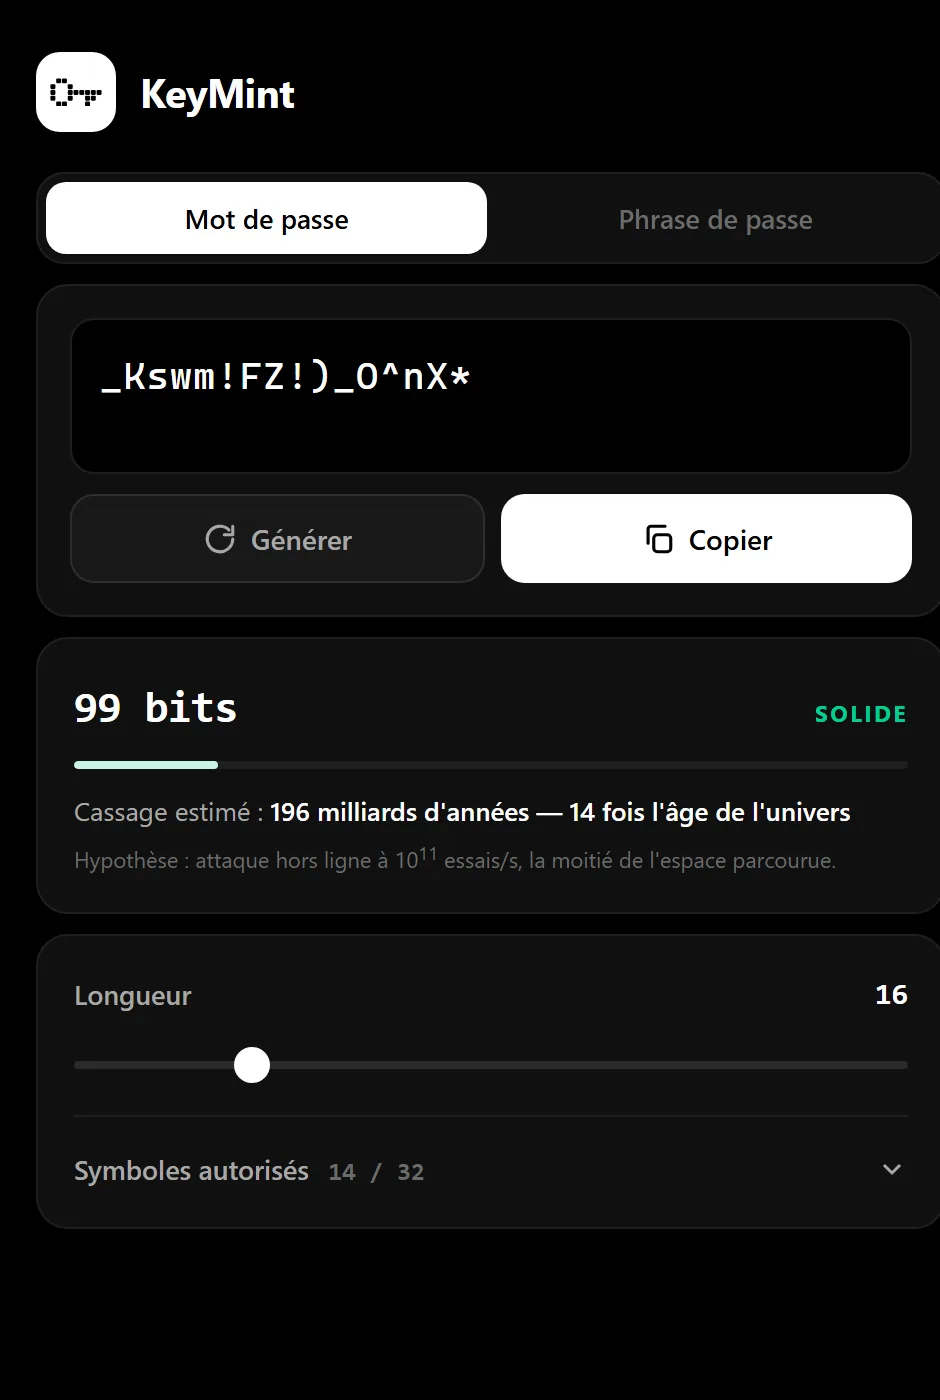
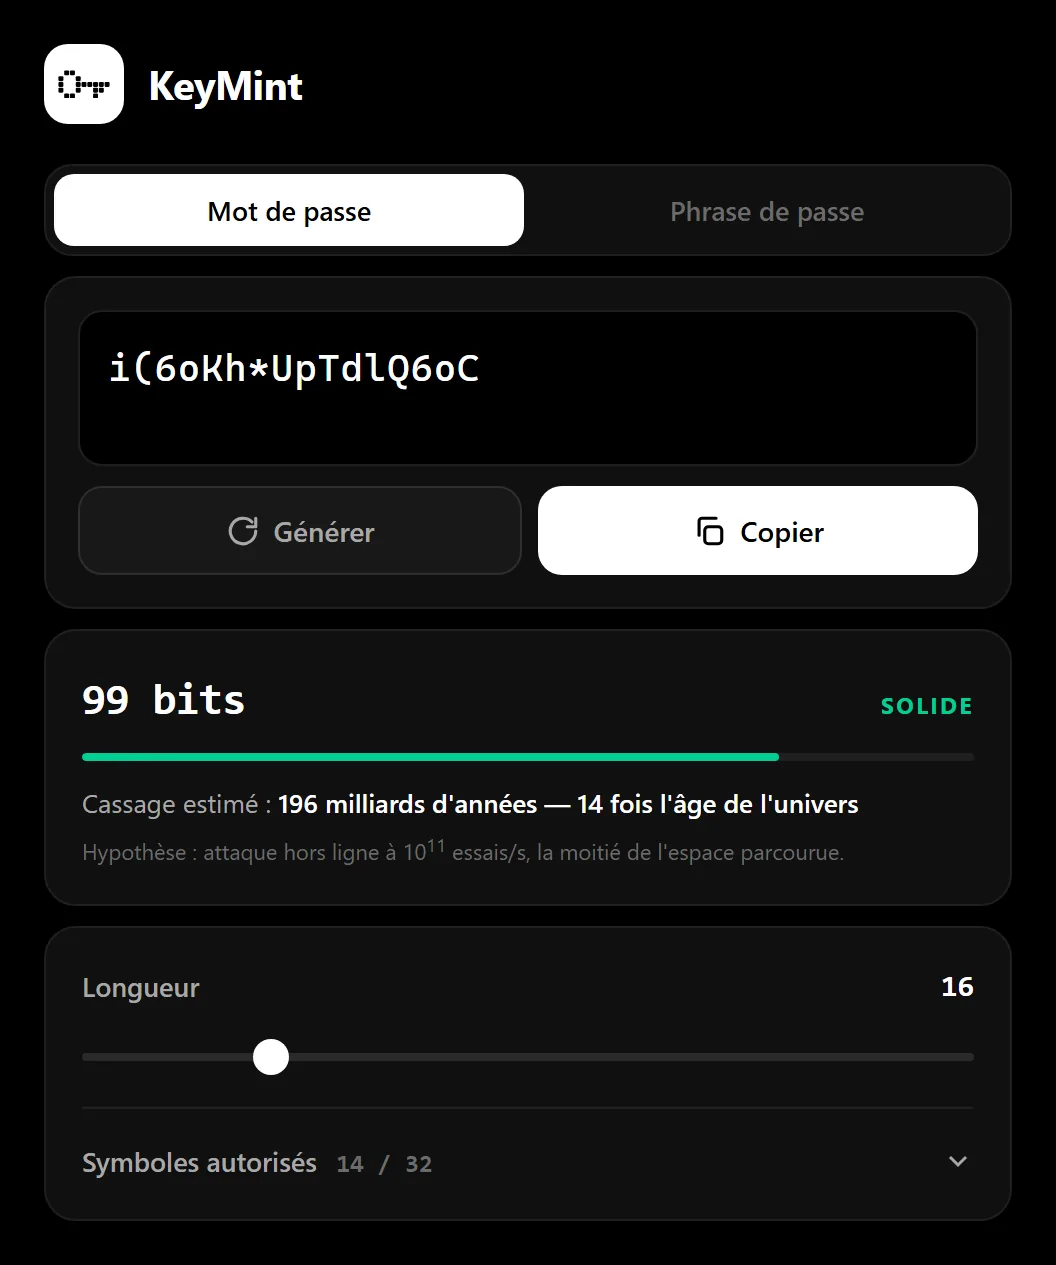
portfolio: KeyMint — liste fusionnee (4151 mots), migration des prefs, captures recentrees

diff --git a/index-fr.html b/index-fr.html
@@ -612,7 +612,7 @@ footer{border-top:1px solid var(--border);margin-top:80px;padding:32px 0;}
 <div class="pm" id="projmodal"><div class="pm-panel"><button class="pm-close" id="pm-close" aria-label="Close">✕</button><div id="pm-body"></div></div></div>
 <script type="application/json" id="projdata">
 {
- "keymint":{"title": "KeyMint — générateur de mots de passe", "cat": "🔑 Hors ligne · PWA + app Windows", "sub": "Des secrets forts, générés hors ligne, jamais enregistrés", "shots": [{"src": "assets/shots/keymint_password.webp", "cap": "Mode mot de passe — entropie réelle en bits"}, {"src": "assets/shots/keymint_passphrase.webp", "cap": "Mode phrase de passe — liste française de 2783 mots"}], "desc": "Un générateur de mots de passe et de phrases de passe qui fonctionne entièrement hors ligne, sur téléphone (PWA installable) et sur Windows (.exe autonome). Il affiche l'entropie réelle en bits et un ordre de grandeur du temps de cassage sous une hypothèse explicitement affichée — plutôt qu'une jauge « faible/fort » arbitraire. Rien n'est jamais enregistré ni transmis.", "feats": ["Tirage uniforme sans biais : un rand() % taille_alphabet naïf favorise statistiquement les premiers caractères de l'alphabet. KeyMint utilise un rejection sampling sur des mots de 32 bits, et un test du khi-deux sur 500 000 tirages prouve que la distribution reste uniforme.","La liste de mots des phrases de passe a été refaite intégralement. Les listes Diceware françaises existantes sont bâties sur un lexique de fréquence sans filtrer la catégorie grammaticale : elles produisent des phrases impossibles à retenir (mots rares, formes conjuguées). La nouvelle croise quatre signaux indépendants — fréquence d'usage réelle (wordfreq), filtres morphologiques, comparaison fr/en pour écarter les anglicismes, étiquetage grammatical (spaCy) pour ne garder que noms communs et adjectifs, et validation par dictionnaire exploitant la casse pour éliminer les noms propres. 2783 mots du quotidien.", "L'aléa vient exclusivement du CSPRNG du système (crypto.getRandomValues). Math.random() est banni, et un test échoue si jamais il apparaît dans le moteur.", "Aucune contrainte de composition (pas de chiffre imposé) : forcer une classe de caractères retire de l'entropie au lieu d'en ajouter.", "Surface d'attaque nulle par conception : Content-Security-Policy stricte (default-src 'none'), aucune requête réseau, aucun secret persisté, presse-papier effacé automatiquement au bout de 2 minutes.","Cycle de vie mobile pris en compte explicitement : un téléphone suspend la page dès qu'on quitte l'app, le minuteur d'effacement ne se déclenche donc pas et l'API presse-papier exige de toute façon le focus. La copie est horodatée et un second déclencheur agit au retour dans l'app (visibilitychange / focus / pageshow) en rattrapant le temps écoulé — la limite de plateforme restante étant documentée plutôt que masquée.", "Un seul moteur partagé par les deux plateformes : l'app Windows sert le même code via pywebview sur 127.0.0.1 — un contexte sécurisé, ce que file:// n'est pas et qu'exige l'API presse-papier.", "26 tests automatisés, dont des khi-deux sur le tirage, sur le mélange de Fisher-Yates et sur les caractères réellement produits."], "metrics": [["99 bits", "16 caractères, alphabet de 76"], ["χ² 500k", "absence de biais prouvée"], ["0 stocké", "rien n'est persisté"], ["2 min", "presse-papier effacé"]], "tech": ["JavaScript", "Web Crypto API", "PWA", "Service Worker", "Content-Security-Policy", "Python", "pywebview", "PyInstaller", "Tests Node.js", "Cryptographie appliquée"], "repo": "https://github.com/thespicyy/keymint", "demo": "https://thespicyy.github.io/keymint/"},
+ "keymint":{"title": "KeyMint — générateur de mots de passe", "cat": "🔑 Hors ligne · PWA + app Windows", "sub": "Des secrets forts, générés hors ligne, jamais enregistrés", "shots": [{"src": "assets/shots/keymint_password.webp", "cap": "Mode mot de passe — entropie réelle en bits"}, {"src": "assets/shots/keymint_passphrase.webp", "cap": "Mode phrase de passe — liste française de 4151 mots"}], "desc": "Un générateur de mots de passe et de phrases de passe qui fonctionne entièrement hors ligne, sur téléphone (PWA installable) et sur Windows (.exe autonome). Il affiche l'entropie réelle en bits et un ordre de grandeur du temps de cassage sous une hypothèse explicitement affichée — plutôt qu'une jauge « faible/fort » arbitraire. Rien n'est jamais enregistré ni transmis.", "feats": ["Tirage uniforme sans biais : un rand() % taille_alphabet naïf favorise statistiquement les premiers caractères de l'alphabet. KeyMint utilise un rejection sampling sur des mots de 32 bits, et un test du khi-deux sur 500 000 tirages prouve que la distribution reste uniforme.","La liste de mots des phrases de passe a été refaite intégralement. Les listes Diceware françaises existantes sont bâties sur un lexique de fréquence sans filtrer la catégorie grammaticale : elles produisent des phrases impossibles à retenir (mots rares, formes conjuguées). La nouvelle croise quatre signaux indépendants — fréquence d'usage réelle (wordfreq), filtres morphologiques, comparaison fr/en pour écarter les anglicismes, étiquetage grammatical (spaCy) pour ne garder que noms communs et adjectifs, et validation par dictionnaire exploitant la casse pour éliminer les noms propres. 4151 mots du quotidien, fusionnés avec la liste Diceware de diceware.fr (CC BY 4.0) après retrait des injures, vulgarités et formes conjuguées.", "L'aléa vient exclusivement du CSPRNG du système (crypto.getRandomValues). Math.random() est banni, et un test échoue si jamais il apparaît dans le moteur.", "Aucune contrainte de composition (pas de chiffre imposé) : forcer une classe de caractères retire de l'entropie au lieu d'en ajouter.", "Surface d'attaque nulle par conception : Content-Security-Policy stricte (default-src 'none'), aucune requête réseau, aucun secret persisté, presse-papier effacé automatiquement au bout de 2 minutes.","Les préférences enregistrent la taille de la liste avec laquelle elles ont été choisies. Lors de la refonte de la liste, un réglage mémorisé de 5 mots est tombé silencieusement de 63 à 57 bits — le genre de régression qui ne signale rien. L'app réinitialise désormais le nombre de mots quand la liste change, en conservant toutes les autres préférences.","Cycle de vie mobile pris en compte explicitement : un téléphone suspend la page dès qu'on quitte l'app, le minuteur d'effacement ne se déclenche donc pas et l'API presse-papier exige de toute façon le focus. La copie est horodatée et un second déclencheur agit au retour dans l'app (visibilitychange / focus / pageshow) en rattrapant le temps écoulé — la limite de plateforme restante étant documentée plutôt que masquée.", "Un seul moteur partagé par les deux plateformes : l'app Windows sert le même code via pywebview sur 127.0.0.1 — un contexte sécurisé, ce que file:// n'est pas et qu'exige l'API presse-papier.", "27 tests automatisés, dont des khi-deux sur le tirage, sur le mélange de Fisher-Yates et sur les caractères réellement produits."], "metrics": [["99 bits", "16 caractères, alphabet de 76"], ["χ² 500k", "absence de biais prouvée"], ["0 stocké", "rien n'est persisté"], ["2 min", "presse-papier effacé"]], "tech": ["JavaScript", "Web Crypto API", "PWA", "Service Worker", "Content-Security-Policy", "Python", "pywebview", "PyInstaller", "Tests Node.js", "Cryptographie appliquée"], "repo": "https://github.com/thespicyy/keymint", "demo": "https://thespicyy.github.io/keymint/"},
  "rnglab":{"title": "RNG Lab — aléatoire statistique contre aléatoire cryptographique", "cat": "🎲 Cryptanalyse · Statistiques inférentielles", "sub": "Réussir les tests n'est pas être sûr — démontré sur banc d'essai", "shots": [{"src": "assets/shots/rnglab_matrix.webp", "cap": "Matrice des résultats — 8 générateurs × 8 tests"}], "desc": "Un banc d'essai comparatif de 8 générateurs de nombres aléatoires, passés au crible d'une batterie de 8 tests statistiques implémentés de zéro, puis d'une attaque de cryptanalyse. Le livrable est un rapport HTML autonome aux figures SVG écrites à la main. Il établit expérimentalement un résultat contre-intuitif : réussir les tests statistiques ne prouve rien sur la sécurité.", "feats": ["Mersenne Twister — le générateur de Python, PHP, Ruby et Excel — passe les 8 tests sans faiblesse, et 100 % de ses sorties futures sont prédites après observation de 624 valeurs, en inversant sa fonction de tempering pour reconstruire l'état interne.", "Une source d'entropie rigoureusement nulle, conditionnée par SHA-256, passe elle aussi les 8 tests. Les tests mesurent le conditionneur, jamais la source — c'est précisément pourquoi un générateur matériel maison est dangereux.", "Deux trouvailles sur la construction d'une vraie source physique : sous Windows la granularité d'horloge de 100 ns annule silencieusement l'entropie d'un TRNG par jitter naïf (min-entropie mesurée à 0,000 bit/bit), et après débiaisage de von Neumann le flux reste déséquilibré à 0,467 — ce qui prouve que les bits bruts ne sont pas indépendants, l'hypothèse même de la méthode.", "Les 8 tests suivent NIST SP 800-22 (monobit, runs, plus longue série, khi-deux, spectral par DFT, autocorrélation avec correction de Bonferroni, incompressibilité). Les p-valeurs reposent sur une fonction gamma incomplète régularisée écrite à la main et validée contre SciPy.", "Chaque test est éprouvé sur des suites délibérément défectueuses dont on connaît le défaut — un test qui ne rejette jamais rien ne vaut rien."], "metrics": [["5 000/5 000", "sorties de MT19937 prédites"], ["0 bit", "d'entropie qui passe quand même 8/8"], ["8 tests", "implémentés de zéro"], ["590 000×", "CSPRNG contre TRNG logiciel"]], "tech": ["Python", "NumPy", "Cryptanalyse", "Statistiques inférentielles", "NIST SP 800-22", "NIST SP 800-90B", "Analyse numérique", "Théorie de l'information", "SVG écrit à la main"], "repo": null, "demo": "rng-lab/index.html"},
  "tdl":{"title":"TDL — Mes tâches","cat":"📱 PWA · To-do multi-appareils","sub":"Une to-do list simple, synchronisée tél & PC",
   "shots":[{"src":"assets/shots/tdl_todo_list.webp","cap":"Liste de tâches (PWA mobile)"},{"src":"assets/shots/tdl_todo_sync.webp","cap":"Synchro multi-appareils"}],

diff --git a/index.html b/index.html
@@ -612,7 +612,7 @@ footer{border-top:1px solid var(--border);margin-top:80px;padding:32px 0;}
 <div class="pm" id="projmodal"><div class="pm-panel"><button class="pm-close" id="pm-close" aria-label="Close">✕</button><div id="pm-body"></div></div></div>
 <script type="application/json" id="projdata">
 {
- "keymint":{"title": "KeyMint — password generator", "cat": "🔑 Offline · PWA + Windows app", "sub": "Strong secrets, generated offline, never stored", "shots": [{"src": "assets/shots/keymint_password.webp", "cap": "Password mode — real entropy in bits"}, {"src": "assets/shots/keymint_passphrase.webp", "cap": "Passphrase mode — 2783-word French list"}], "desc": "A password and passphrase generator that runs entirely offline, on the phone (installable PWA) and on Windows (standalone .exe). It shows the real entropy in bits and an order of magnitude for the cracking time under an explicitly stated assumption — rather than an arbitrary weak/strong gauge. Nothing is ever stored or transmitted.", "feats": ["Unbiased uniform sampling: a naive rand() % alphabet_size statistically favours the first characters of the alphabet. KeyMint uses rejection sampling over 32-bit words, and a chi-square test on 500 000 draws proves the distribution stays uniform.","The passphrase wordlist was rebuilt from scratch. Off-the-shelf French Diceware lists are built on a frequency lexicon without filtering by part of speech, so they yield unmemorable phrases (rare words, conjugated verb forms). The new list crosses four independent signals — real usage frequency (wordfreq), morphological filters, a French/English comparison to drop loanwords, part-of-speech tagging (spaCy) to keep only common nouns and adjectives, and dictionary validation exploiting capitalisation to remove proper nouns. 2783 everyday words.", "Randomness comes exclusively from the OS CSPRNG (crypto.getRandomValues). Math.random() is banned, and a test fails the build if it ever appears in the engine.", "No composition constraint (no forced digit): forcing a character class removes entropy instead of adding it.", "Zero attack surface by design: strict Content-Security-Policy (default-src 'none'), no network request at all, no secret persisted, clipboard wiped automatically after 2 minutes.","Mobile lifecycle handled explicitly: a phone suspends the page the moment you leave the app, so the wipe timer never fires and the clipboard API requires focus anyway. The copy is timestamped and a second trigger runs on return to the app (visibilitychange / focus / pageshow), catching up the elapsed time — with the remaining platform limitation documented rather than hidden.", "One engine shared by both platforms: the Windows app serves the same code through pywebview over 127.0.0.1 — a secure context, which file:// is not, and which the clipboard API requires.", "26 automated tests, including chi-square on the sampler, on the Fisher-Yates shuffle and on the characters actually produced."], "metrics": [["99 bits", "16 chars, 76-symbol alphabet"], ["χ² 500k", "proven bias-free"], ["0 stored", "nothing persisted"], ["2 min", "clipboard auto-wipe"]], "tech": ["JavaScript", "Web Crypto API", "PWA", "Service Worker", "Content-Security-Policy", "Python", "pywebview", "PyInstaller", "Node.js tests", "Applied cryptography"], "repo": "https://github.com/thespicyy/keymint", "demo": "https://thespicyy.github.io/keymint/"},
+ "keymint":{"title": "KeyMint — password generator", "cat": "🔑 Offline · PWA + Windows app", "sub": "Strong secrets, generated offline, never stored", "shots": [{"src": "assets/shots/keymint_password.webp", "cap": "Password mode — real entropy in bits"}, {"src": "assets/shots/keymint_passphrase.webp", "cap": "Passphrase mode — 4151-word French list"}], "desc": "A password and passphrase generator that runs entirely offline, on the phone (installable PWA) and on Windows (standalone .exe). It shows the real entropy in bits and an order of magnitude for the cracking time under an explicitly stated assumption — rather than an arbitrary weak/strong gauge. Nothing is ever stored or transmitted.", "feats": ["Unbiased uniform sampling: a naive rand() % alphabet_size statistically favours the first characters of the alphabet. KeyMint uses rejection sampling over 32-bit words, and a chi-square test on 500 000 draws proves the distribution stays uniform.","The passphrase wordlist was rebuilt from scratch. Off-the-shelf French Diceware lists are built on a frequency lexicon without filtering by part of speech, so they yield unmemorable phrases (rare words, conjugated verb forms). The new list crosses four independent signals — real usage frequency (wordfreq), morphological filters, a French/English comparison to drop loanwords, part-of-speech tagging (spaCy) to keep only common nouns and adjectives, and dictionary validation exploiting capitalisation to remove proper nouns. 4151 everyday words, merged with the Diceware list from diceware.fr (CC BY 4.0) after filtering out slurs, vulgarities and conjugated forms.", "Randomness comes exclusively from the OS CSPRNG (crypto.getRandomValues). Math.random() is banned, and a test fails the build if it ever appears in the engine.", "No composition constraint (no forced digit): forcing a character class removes entropy instead of adding it.", "Zero attack surface by design: strict Content-Security-Policy (default-src 'none'), no network request at all, no secret persisted, clipboard wiped automatically after 2 minutes.","Preferences carry the size of the wordlist they were chosen with. When the list was rebuilt, a stored setting of 5 words silently dropped from 63 to 57 bits — the kind of regression that reports nothing. The app now resets the word count when the list changes, and keeps every other preference untouched.","Mobile lifecycle handled explicitly: a phone suspends the page the moment you leave the app, so the wipe timer never fires and the clipboard API requires focus anyway. The copy is timestamped and a second trigger runs on return to the app (visibilitychange / focus / pageshow), catching up the elapsed time — with the remaining platform limitation documented rather than hidden.", "One engine shared by both platforms: the Windows app serves the same code through pywebview over 127.0.0.1 — a secure context, which file:// is not, and which the clipboard API requires.", "27 automated tests, including chi-square on the sampler, on the Fisher-Yates shuffle and on the characters actually produced."], "metrics": [["99 bits", "16 chars, 76-symbol alphabet"], ["χ² 500k", "proven bias-free"], ["0 stored", "nothing persisted"], ["2 min", "clipboard auto-wipe"]], "tech": ["JavaScript", "Web Crypto API", "PWA", "Service Worker", "Content-Security-Policy", "Python", "pywebview", "PyInstaller", "Node.js tests", "Applied cryptography"], "repo": "https://github.com/thespicyy/keymint", "demo": "https://thespicyy.github.io/keymint/"},
  "rnglab":{"title": "RNG Lab — statistical vs cryptographic randomness", "cat": "🎲 Cryptanalysis · Inferential statistics", "sub": "Passing the tests is not being secure — proven on a bench", "shots": [{"src": "assets/shots/rnglab_matrix.webp", "cap": "Results matrix — 8 generators × 8 statistical tests"}], "desc": "A comparative bench of 8 random number generators, put through a battery of 8 statistical tests implemented from scratch, then through a cryptanalytic attack. The deliverable is a self-contained HTML report with hand-written SVG figures. It establishes experimentally a counter-intuitive result: passing the statistical tests proves nothing about security.", "feats": ["Mersenne Twister — the generator behind Python, PHP, Ruby and Excel — passes all 8 tests without a weakness, and 100 % of its future output is predicted after observing 624 values, by inverting its tempering function to rebuild the internal state.", "An entropy source containing exactly zero entropy, conditioned through SHA-256, also passes all 8 tests. The tests measure the conditioner, never the source — which is precisely why a homemade hardware generator is dangerous.", "Two findings on building a real physical source: on Windows the 100 ns clock granularity silently zeroes the entropy of a naive jitter TRNG (min-entropy measured at 0.000 bit/bit), and after von Neumann debiasing the stream stays imbalanced at 0.467 — proving the raw bits are not independent, which is the method's own assumption.", "The 8 tests follow NIST SP 800-22 (monobit, runs, longest run, chi-square, spectral DFT, autocorrelation with Bonferroni correction, incompressibility). P-values rest on a regularised incomplete gamma function written by hand and cross-validated against SciPy.", "Every test is exercised on deliberately defective sequences whose flaw is known in advance — a test that never rejects anything is worthless."], "metrics": [["5 000/5 000", "MT19937 outputs predicted"], ["0 bits", "of entropy still scoring 8/8"], ["8 tests", "implemented from scratch"], ["590 000×", "CSPRNG vs software TRNG"]], "tech": ["Python", "NumPy", "Cryptanalysis", "Inferential statistics", "NIST SP 800-22", "NIST SP 800-90B", "Numerical analysis", "Information theory", "Hand-written SVG"], "repo": null, "demo": "rng-lab/index.en.html"},
  "tdl":{"title":"TDL — My tasks","cat":"📱 PWA · Multi-device to-do","sub":"A simple to-do list, synced across phone & PC",
   "shots":[{"src":"assets/shots/tdl_todo_list.webp","cap":"To-do list (mobile PWA)"},{"src":"assets/shots/tdl_todo_sync.webp","cap":"Multi-device sync"}],
